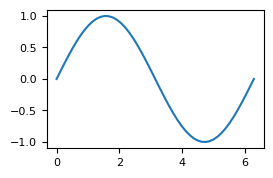
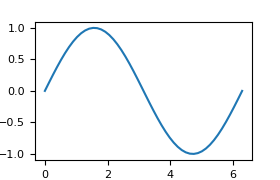
update README figure

Changed region(s): [[0.0, 0.0562, 0.9963, 1.0], [0.4689, 0.1685, 0.6154, 0.5899], [0.6154, 0.5899, 0.674, 0.7303]]

diff --git a/tests/test_readme_figures.py b/tests/test_readme_figures.py
@@ -14,8 +14,10 @@ import matplotlib
 
 matplotlib.use("Agg")
 
+import matplotlib.pyplot as plt
 import numpy as np
 import pytest
+from PIL import Image
 
 from matplotlib_utilities import (
     AnnotateParameters,
@@ -42,6 +44,10 @@ UPDATE = os.environ.get("UPDATE_README_FIGURES") == "1"
 
 # Small figures for README embeds (default GraphParameters is 250 dpi / 5×3 in).
 README_GRAPH_PARAMETERS = GraphParameters(figsize=(2.8, 1.8), dpi=100, font_size=8)
+README_FIGURE_SIZE = (
+    int(README_GRAPH_PARAMETERS.figsize[0] * README_GRAPH_PARAMETERS.dpi),
+    int(README_GRAPH_PARAMETERS.figsize[1] * README_GRAPH_PARAMETERS.dpi),
+)
 
 FIGURE_PATHS = [
     "image/imshow.png",
@@ -67,9 +73,15 @@ def _index(maker: MatplotGraphMaker):
 
 
 def _save(maker: MatplotGraphMaker, rel_path: str) -> Path:
+    """Save at fixed pixel size (no bbox_inches='tight') so README embeds align."""
     out = FIGURES_ROOT / rel_path
     out.parent.mkdir(parents=True, exist_ok=True)
-    maker.finalize(save_path=str(out), is_showing_result_enabled=False)
+    maker.fig.subplots_adjust(
+        wspace=maker.parameters.w_space,
+        hspace=maker.parameters.h_space,
+    )
+    maker.fig.savefig(str(out), dpi=maker.parameters.dpi)
+    plt.close(maker.fig)
     return out
 
 
@@ -78,6 +90,11 @@ def test_readme_figure_committed(rel_path: str) -> None:
     path = FIGURES_ROOT / rel_path
     assert path.is_file(), f"missing {path}; run UPDATE_README_FIGURES=1 pytest -k update"
     assert path.stat().st_size > 0
+    with Image.open(path) as image:
+        assert image.size == README_FIGURE_SIZE, (
+            f"{rel_path} is {image.size}, expected {README_FIGURE_SIZE}; "
+            "run UPDATE_README_FIGURES=1 pytest -k update"
+        )
 
 
 @pytest.mark.skipif(not UPDATE, reason="set UPDATE_README_FIGURES=1 to regenerate PNGs")

diff --git a/tests/test_readme_axis_figures.py b/tests/test_readme_axis_figures.py
@@ -14,8 +14,10 @@ import matplotlib
 
 matplotlib.use("Agg")
 
+import matplotlib.pyplot as plt
 import numpy as np
 import pytest
+from PIL import Image
 
 from matplotlib_utilities import (
     GraphAxis,
@@ -32,6 +34,10 @@ FIGURES_ROOT = AXIS_README / "readme_figures"
 UPDATE = os.environ.get("UPDATE_README_FIGURES") == "1"
 
 README_GRAPH_PARAMETERS = GraphParameters(figsize=(2.8, 1.8), dpi=100, font_size=8)
+README_FIGURE_SIZE = (
+    int(README_GRAPH_PARAMETERS.figsize[0] * README_GRAPH_PARAMETERS.dpi),
+    int(README_GRAPH_PARAMETERS.figsize[1] * README_GRAPH_PARAMETERS.dpi),
+)
 
 FIGURE_PATHS = [
     "set_label.png",
@@ -52,9 +58,15 @@ def _index(maker: MatplotGraphMaker):
 
 
 def _save(maker: MatplotGraphMaker, rel_path: str) -> Path:
+    """Save at fixed pixel size (no bbox_inches='tight') so README embeds align."""
     out = FIGURES_ROOT / rel_path
     out.parent.mkdir(parents=True, exist_ok=True)
-    maker.finalize(save_path=str(out), is_showing_result_enabled=False)
+    maker.fig.subplots_adjust(
+        wspace=maker.parameters.w_space,
+        hspace=maker.parameters.h_space,
+    )
+    maker.fig.savefig(str(out), dpi=maker.parameters.dpi)
+    plt.close(maker.fig)
     return out
 
 
@@ -68,6 +80,11 @@ def test_readme_axis_figure_committed(rel_path: str) -> None:
     path = FIGURES_ROOT / rel_path
     assert path.is_file(), f"missing {path}; run UPDATE_README_FIGURES=1 pytest -k update"
     assert path.stat().st_size > 0
+    with Image.open(path) as image:
+        assert image.size == README_FIGURE_SIZE, (
+            f"{rel_path} is {image.size}, expected {README_FIGURE_SIZE}; "
+            "run UPDATE_README_FIGURES=1 pytest -k update"
+        )
 
 
 @pytest.mark.skipif(not UPDATE, reason="set UPDATE_README_FIGURES=1 to regenerate PNGs")
